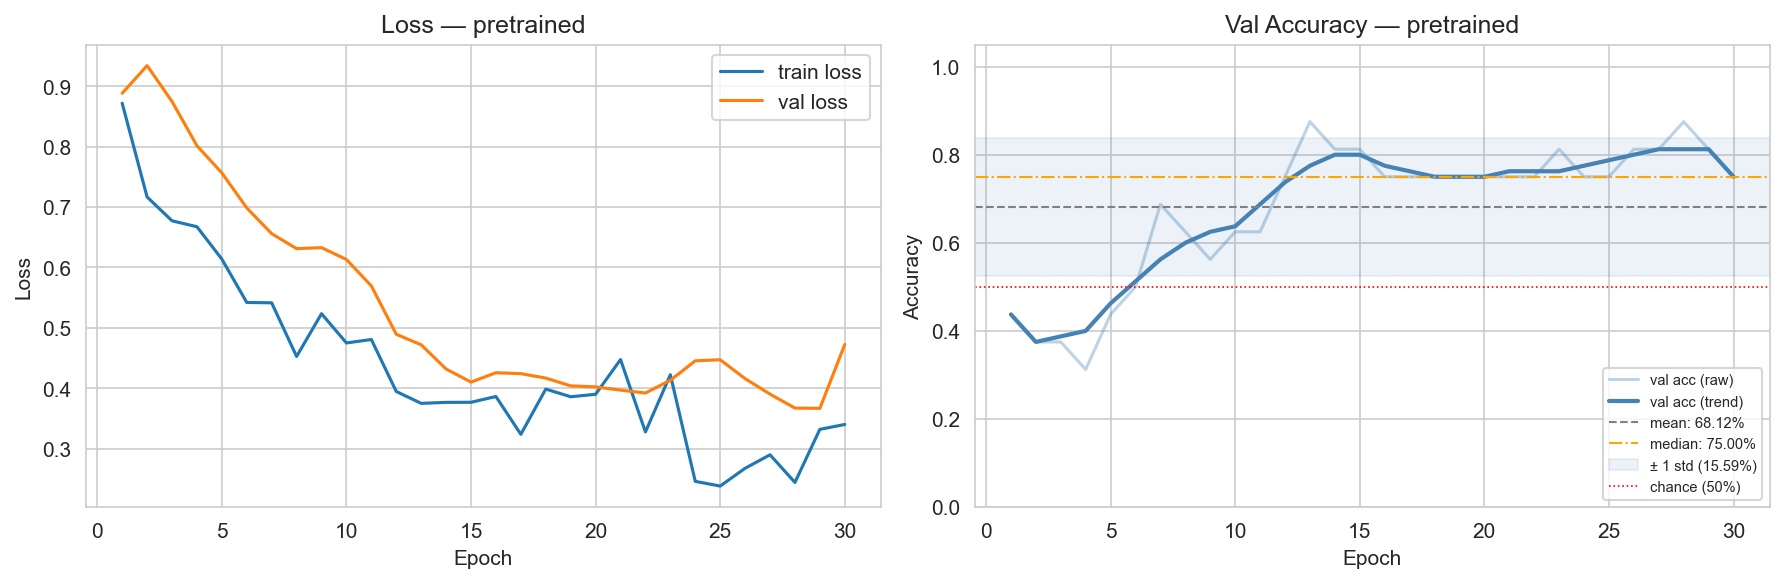
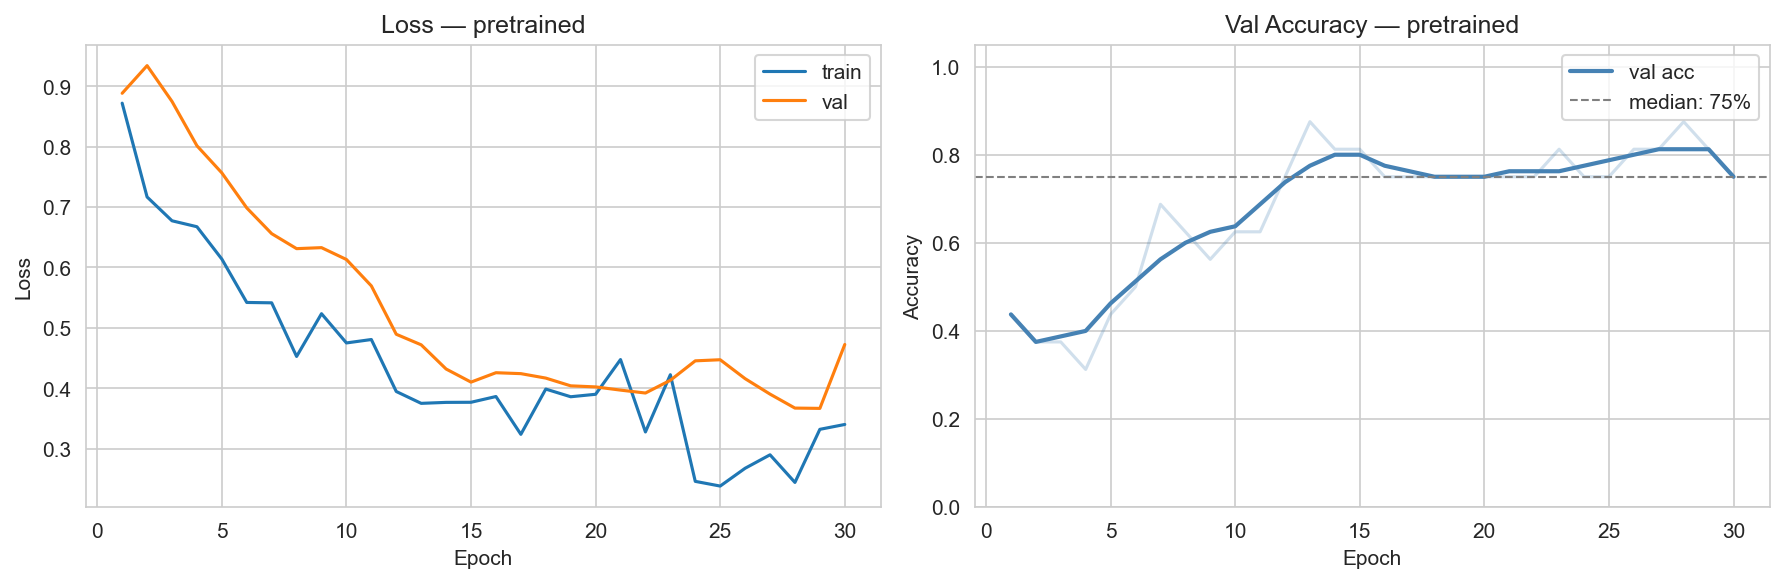
more improvements

diff --git a/src/evaluate.py b/src/evaluate.py
@@ -108,12 +108,18 @@ def compute_val_stats(name: str) -> dict[str, float]:
     with open(path) as f:
         h = json.load(f)
     acc = np.array(h["val_acc"])
+    median = float(np.median(acc))
+    std = float(np.std(acc))
+    # Stability score: how many std above chance (0.5) the median sits.
+    # Like a Sharpe ratio — rewards high accuracy and penalizes volatility.
+    stability = (median - 0.5) / std if std > 0 else 0.0
     return {
-        "mean":   float(np.mean(acc)),
-        "median": float(np.median(acc)),
-        "std":    float(np.std(acc)),
-        "min":    float(np.min(acc)),
-        "max":    float(np.max(acc)),
+        "mean":      float(np.mean(acc)),
+        "median":    median,
+        "std":       std,
+        "stability": round(stability, 4),
+        "min":       float(np.min(acc)),
+        "max":       float(np.max(acc)),
     }
 
 
@@ -156,31 +162,26 @@ def plot_learning_curves(name: str) -> None:
     fig, (ax1, ax2) = plt.subplots(1, 2, figsize=(12, 4))
 
     # loss
-    ax1.plot(epochs, h["train_loss"], label="train loss")
-    ax1.plot(epochs, h["val_loss"],   label="val loss")
+    ax1.plot(epochs, h["train_loss"], label="train")
+    ax1.plot(epochs, h["val_loss"],   label="val")
     ax1.set_xlabel("Epoch")
     ax1.set_ylabel("Loss")
     ax1.set_title(f"Loss — {name}")
     ax1.legend()
 
-    # accuracy with summary stats
+    # accuracy: trend line + median reference
     val_acc = h["val_acc"]
     smoothed = _moving_average(val_acc, window=5)
 
-    ax2.plot(epochs, val_acc, alpha=0.35, color="steelblue", label="val acc (raw)")
-    ax2.plot(epochs, smoothed, color="steelblue", linewidth=2, label="val acc (trend)")
-    ax2.axhline(stats["mean"], ls="--", color="gray", lw=1,
-                label=f"mean: {stats['mean']:.2%}")
-    ax2.axhline(stats["median"], ls="-.", color="orange", lw=1,
-                label=f"median: {stats['median']:.2%}")
-    ax2.axhspan(stats["mean"] - stats["std"], stats["mean"] + stats["std"],
-                alpha=0.1, color="steelblue", label=f"\u00b1 1 std ({stats['std']:.2%})")
-    ax2.axhline(0.5, ls=":", color="red", lw=0.8, label="chance (50%)")
+    ax2.plot(epochs, val_acc, alpha=0.25, color="steelblue")
+    ax2.plot(epochs, smoothed, color="steelblue", linewidth=2, label="val acc")
+    ax2.axhline(stats["median"], ls="--", color="gray", lw=1,
+                label=f"median: {stats['median']:.0%}")
     ax2.set_xlabel("Epoch")
     ax2.set_ylabel("Accuracy")
     ax2.set_ylim(0, 1.05)
     ax2.set_title(f"Val Accuracy — {name}")
-    ax2.legend(fontsize=7, loc="lower right")
+    ax2.legend()
 
     _save(fig, f"{name}/learning_curves.png")
 
@@ -240,31 +241,26 @@ def plot_combined_curves(histories: dict[str, dict]) -> None:
         stats = compute_val_stats(name)
 
         # loss
-        ax1.plot(epochs, h["train_loss"], color=c, linestyle="-",
-                 label=f"{name} train")
-        ax1.plot(epochs, h["val_loss"], color=c, linestyle="--",
-                 label=f"{name} val")
+        ax1.plot(epochs, h["val_loss"], color=c, label=name)
 
-        # accuracy (smoothed + mean line)
+        # accuracy — smoothed trend + median
         smoothed = _moving_average(h["val_acc"], window=5)
         ax2.plot(epochs, h["val_acc"], alpha=0.2, color=c)
         ax2.plot(epochs, smoothed, color=c, linewidth=2, label=name)
-        ax2.axhline(stats["mean"], ls="--", color=c, lw=0.8, alpha=0.6,
-                    label=f"{name} mean: {stats['mean']:.2%}")
+        ax2.axhline(stats["median"], ls="--", color=c, lw=0.8, alpha=0.6)
 
     ax1.set_xlabel("Epoch")
     ax1.set_ylabel("Loss")
-    ax1.set_title("Loss Curves")
-    ax1.legend(fontsize=8)
+    ax1.set_title("Val Loss")
+    ax1.legend()
 
-    ax2.axhline(0.5, ls=":", color="red", lw=0.8, label="chance (50%)")
     ax2.set_xlabel("Epoch")
     ax2.set_ylabel("Accuracy")
     ax2.set_ylim(0, 1.05)
-    ax2.set_title("Val Accuracy")
-    ax2.legend(fontsize=7)
+    ax2.set_title("Val Accuracy (dashed = median)")
+    ax2.legend()
 
-    _save(fig, "learning_curves.png")
+    _save(fig, "comparison/learning_curves.png")
 
 
 def plot_roc_curves(all_results: dict[str, dict]) -> None:
@@ -281,7 +277,7 @@ def plot_roc_curves(all_results: dict[str, dict]) -> None:
     ax.set_ylabel("True Positive Rate")
     ax.set_title("ROC Curve")
     ax.legend(title="AUC")
-    _save(fig, "roc_curve.png")
+    _save(fig, "comparison/roc_curve.png")
 
 
 def plot_comparison_table(all_results: dict[str, dict]) -> None:
@@ -300,13 +296,10 @@ def plot_comparison_table(all_results: dict[str, dict]) -> None:
     # val accuracy summary stats
     for name_label, stat_key in [("Val Acc (mean)", "mean"),
                                   ("Val Acc (median)", "median"),
-                                  ("Val Acc (std)", "std")]:
+                                  ("Stability", "stability")]:
         p = all_results["pretrained"]["val_stats"][stat_key]
         s = all_results["scratch"]["val_stats"][stat_key]
-        if stat_key == "std":
-            winner = "—"  # std alone doesn't indicate better/worse
-        else:
-            winner = "Pretrained" if p > s else "Scratch" if s > p else "Tie"
+        winner = "Pretrained" if p > s else "Scratch" if s > p else "Tie"
         rows.append([name_label, f"{p:.4f}", f"{s:.4f}", winner])
 
     fig, ax = plt.subplots(figsize=(8, 4))
@@ -329,7 +322,7 @@ def plot_comparison_table(all_results: dict[str, dict]) -> None:
             cell.set_facecolor("#f8d7da")
 
     ax.set_title("Model Comparison — Test Set", fontsize=13, pad=20)
-    _save(fig, "comparison_table.png")
+    _save(fig, "comparison/metrics_table.png")
 
 
 # ── Grad-CAM ──────────────────────────────────────────────────────────
@@ -451,7 +444,7 @@ if __name__ == "__main__":
         s = all_results["scratch"]["metrics"][metric]
         print(f"{metric:12s}  {p:>12.4f}  {s:>10.4f}")
     print()
-    for stat in ("mean", "median", "std"):
+    for stat in ("mean", "median", "std", "stability"):
         p = all_results["pretrained"]["val_stats"][stat]
         s = all_results["scratch"]["val_stats"][stat]
-        print(f"val_acc_{stat:6s}  {p:>12.4f}  {s:>10.4f}")
+        print(f"val_{stat:10s}  {p:>12.4f}  {s:>10.4f}")
